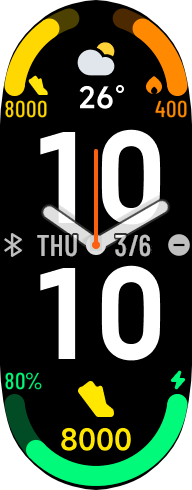
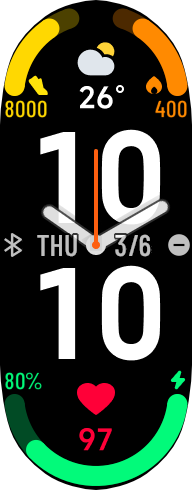
ESBuild

Changed region(s): [[0.3125, 0.7653, 0.6875, 0.9184]]

diff --git a/watchface/render/clock.js b/watchface/render/clock.js
@@ -1,0 +1,80 @@
+import { CLOCK_TYPES, HAS_DIGITS_AOD, HAS_DIGITS_NORMAL, HAS_POINTER_AOD, HAS_POINTER_NORMAL } from "../lib/clock";
+import { getImageArray, mapLanguage, withSelect, withTip } from "../lib/utils";
+import { renderDate } from "./date";
+import { renderStatus } from "./status";
+
+export function renderClock(isAOD, isEdit) {
+  const optional_types = Object.entries(CLOCK_TYPES).map(([key, { type, ...title }]) => ({
+    type,
+    preview: `edit/clock/preview/${key}.png`,
+    ...mapLanguage((lang) => [`title_${lang}`, title[lang]]),
+  }));
+
+  const editGroup = hmUI.createWidget(hmUI.widget.WATCHFACE_EDIT_GROUP, {
+    _name: "clock",
+    edit_id: 120,
+    x: 0,
+    y: 130,
+    w: 192,
+    h: 230,
+    default_type: CLOCK_TYPES.analog_aod.type,
+    optional_types,
+    count: optional_types.length,
+    ...withSelect("edit/clock"),
+    ...withTip(20, -48),
+  });
+
+  if (isEdit) return;
+
+  const currentType = editGroup.getProperty(hmUI.prop.CURRENT_TYPE);
+  const hasDigits = isAOD ? currentType & HAS_DIGITS_AOD : currentType & HAS_DIGITS_NORMAL;
+  const hasPointer = isAOD ? currentType & HAS_POINTER_AOD : currentType & HAS_POINTER_NORMAL;
+
+  if (!isAOD) renderStatus(hasDigits, hasPointer);
+
+  if (hasDigits) {
+    const font = getImageArray(`fonts/clock/${isAOD ? "aod" : "normal"}`);
+
+    hmUI.createWidget(hmUI.widget.IMG_TIME, {
+      _name: "time.digits",
+      hour_startX: 26,
+      hour_startY: 106,
+      hour_zero: 1,
+      hour_array: font,
+      minute_startX: 26,
+      minute_startY: 242,
+      minute_zero: 1,
+      minute_array: font,
+    });
+  } else {
+    hmUI.createWidget(hmUI.widget.IMG, { x: 36, y: 185, src: "pointer/analog_bg.png" });
+  }
+
+  if (hasPointer) {
+    hmUI.createWidget(hmUI.widget.TIME_POINTER, {
+      _name: "time.pointer",
+      hour_centerX: 96,
+      hour_centerY: 245,
+      hour_posX: 12,
+      hour_posY: 69,
+      hour_path: "pointer/hour.p.png",
+      minute_centerX: 96,
+      minute_centerY: 245,
+      minute_posX: 12,
+      minute_posY: 86,
+      minute_path: "pointer/minute.p.png",
+      minute_cover_path: `pointer/center_${isAOD ? "aod" : "normal"}.png`,
+      minute_cover_x: 84,
+      minute_cover_y: 233,
+      ...(isAOD || {
+        second_centerX: 96,
+        second_centerY: 245,
+        second_posX: 6,
+        second_posY: 98,
+        second_path: "pointer/second.p.png",
+      }),
+    });
+  }
+
+  renderDate(hasDigits, hasPointer);
+}

diff --git a/watchface/lib/utils.js b/watchface/lib/utils.js
@@ -1,21 +1,17 @@
-function getCurrentEntry(editGroup, types) {
+export function getCurrentEntry(editGroup, types) {
   const currentType = editGroup.getProperty(hmUI.prop.CURRENT_TYPE);
   return Object.entries(types).find((entry) => getEditType(...entry) === currentType) ?? [];
 }
 
-function getDateWidth() {
-  return ((TIME.month < 10 ? 1 : 2) + (TIME.day < 10 ? 1 : 2)) * 14 + 10;
-}
-
-function getEditType(key, { type }) {
+export function getEditType(key, { type }) {
   return type?.value ?? hmUI.edit_type[key];
 }
 
-function getImageArray(dir, length = 10) {
+export function getImageArray(dir, length = 10) {
   return Array.from({ length }, (_, i) => `${dir}/${i}.png`);
 }
 
-function getOptionalTypes(types, toPreviewFn) {
+export function getOptionalTypes(types, toPreviewFn) {
   return [
     ...Object.entries(types).map(([key, data]) => ({
       type: getEditType(key, data),
@@ -26,11 +22,11 @@ function getOptionalTypes(types, toPreviewFn) {
   ];
 }
 
-function mapLanguage(toEntriesFn) {
+export function mapLanguage(toEntriesFn) {
   return Object.fromEntries(["en", "sc", "tc"].map(toEntriesFn));
 }
 
-function withFont(subdir, { symbols: { invalid, minus, dot, unit } = {} }) {
+export function withFont(subdir, { symbols: { invalid, minus, dot, unit } = {} }) {
   const dir = `fonts/${subdir}`;
   return {
     font_array: getImageArray(dir),
@@ -41,10 +37,10 @@ function withFont(subdir, { symbols: { invalid, minus, dot, unit } = {} }) {
   };
 }
 
-function withSelect(dir) {
+export function withSelect(dir) {
   return { select_image: `${dir}/select.png`, un_select_image: `${dir}/unselect.png` };
 }
 
-function withTip(tips_x, tips_y) {
+export function withTip(tips_x, tips_y) {
   return { tips_BG: "edit/tips.png", tips_x, tips_y, tips_width: 152 };
 }

diff --git a/watchface/render/date.js b/watchface/render/date.js
@@ -1,26 +1,10 @@
+import { getDateWidth, TIME } from "../lib/sensors";
+import { getImageArray, mapLanguage } from "../lib/utils";
+
 const language = DeviceRuntimeCore.HmUtils.getLanguage();
 const hasDay = language.startsWith("en") || language.startsWith("zh");
 
-function renderDate(hasDigits, hasPointer) {
-  function getDatePosition() {
-    if (hasDigits && hasPointer) {
-      return { x: 32, y: 230, month_startX: 114, month_startY: 230 };
-    }
-
-    const dayWidth = hasDay ? 52 : 0;
-    if (hasPointer) {
-      return {
-        x: Math.round((192 - dayWidth) / 2),
-        y: 133,
-        month_startX: Math.round((192 - getDateWidth()) / 2),
-        month_startY: 327,
-      };
-    }
-
-    const x = Math.round((192 - getDateWidth() - dayWidth) / 2);
-    return { x, y: 230, month_startX: x + dayWidth, month_startY: 230 };
-  }
-
+export function renderDate(hasDigits, hasPointer) {
   let { x, y, month_startX, month_startY } = getDatePosition();
   const font = getImageArray("fonts/date");
 
@@ -52,4 +36,23 @@ function renderDate(hasDigits, hasPointer) {
     day?.setProperty(hmUI.prop.MORE, { x, y });
     date.setProperty(hmUI.prop.MORE, { month_startX, month_startY });
   });
+
+  function getDatePosition() {
+    if (hasDigits && hasPointer) {
+      return { x: 32, y: 230, month_startX: 114, month_startY: 230 };
+    }
+
+    const dayWidth = hasDay ? 52 : 0;
+    if (hasPointer) {
+      return {
+        x: Math.round((192 - dayWidth) / 2),
+        y: 133,
+        month_startX: Math.round((192 - getDateWidth()) / 2),
+        month_startY: 327,
+      };
+    }
+
+    const x = Math.round((192 - getDateWidth() - dayWidth) / 2);
+    return { x, y: 230, month_startX: x + dayWidth, month_startY: 230 };
+  }
 }

diff --git a/watchface/render/status.js b/watchface/render/status.js
@@ -1,3 +1,5 @@
+import { getDateWidth, TIME } from "../lib/sensors";
+
 const STATUS_ON_LEFT = {
   bluetooth: { x: 0, y: 216 },
   dnd: { x: 0, y: 248 },
@@ -8,12 +10,8 @@ const STATUS_ON_BOTH_SIDES = {
   dnd: { x: 166, y: 232 },
 };
 
-function getStatusPosition(hasDigits, hasPointer) {
-  return hasDigits && hasPointer && getDateWidth() > 46 ? STATUS_ON_LEFT : STATUS_ON_BOTH_SIDES;
-}
-
-function renderStatus(hasDigits, hasPointer) {
-  let currentPosition = getStatusPosition(hasDigits, hasPointer);
+export function renderStatus(hasDigits, hasPointer) {
+  let currentPosition = getStatusPosition();
   const bluetooth = [
     hmUI.createWidget(hmUI.widget.IMG, {
       _name: "status.bluetooth.on",
@@ -45,9 +43,13 @@ function renderStatus(hasDigits, hasPointer) {
   if (!hasDigits || !hasPointer) return;
 
   TIME.addEventListener(TIME.event.DAYCHANGE, () => {
-    if (currentPosition !== (currentPosition = getStatusPosition(hasDigits, hasPointer))) {
+    if (currentPosition !== (currentPosition = getStatusPosition())) {
       for (let widget of bluetooth) widget.setProperty(hmUI.prop.MORE, currentPosition.bluetooth);
       for (let widget of dnd) widget.setProperty(hmUI.prop.MORE, currentPosition.dnd);
     }
   });
+
+  function getStatusPosition() {
+    return hasDigits && hasPointer && getDateWidth() > 46 ? STATUS_ON_LEFT : STATUS_ON_BOTH_SIDES;
+  }
 }

diff --git a/watchface/lib/clock.js b/watchface/lib/clock.js
@@ -1,0 +1,31 @@
+export const HAS_DIGITS_AOD = 1;
+export const HAS_DIGITS_NORMAL = 2;
+export const HAS_POINTER_AOD = 4;
+export const HAS_POINTER_NORMAL = 8;
+
+export const CLOCK_TYPES = {
+  analog_aod: {
+    type: HAS_DIGITS_NORMAL | HAS_POINTER_AOD | HAS_POINTER_NORMAL,
+    en: "Analog AOD",
+    sc: "指针息屏界面",
+    tc: "指針息屏界面",
+  },
+  analog_only: {
+    type: HAS_POINTER_AOD | HAS_POINTER_NORMAL,
+    en: "Analog Only",
+    sc: "只有指针",
+    tc: "只有指針",
+  },
+  digital_aod: {
+    type: HAS_DIGITS_AOD | HAS_DIGITS_NORMAL | HAS_POINTER_NORMAL,
+    en: "Digital AOD",
+    sc: "数字息屏界面",
+    tc: "數字息屏界面",
+  },
+  digital_only: {
+    type: HAS_DIGITS_AOD | HAS_DIGITS_NORMAL,
+    en: "Digital Only",
+    sc: "只有数字",
+    tc: "只有數字",
+  },
+};

diff --git a/watchface/render/widgets.js b/watchface/render/widgets.js
@@ -1,10 +1,14 @@
-function renderWidgets(isEdit) {
+import { getColor } from "../lib/colors";
+import { getCurrentEntry, getEditType, getOptionalTypes, withFont, withSelect, withTip } from "../lib/utils";
+import { WIDGET_TYPES } from "../lib/widgets";
+
+export function renderWidgets(isEdit) {
   const widgetKeys = [];
   const widgetUrls = [];
   const optional_types = getOptionalTypes(WIDGET_TYPES, (key) => `edit/widgets/preview/${key}.png`);
 
   for (let i = 0; i < 2; i++) {
-    const defaultKey = i === 0 ? "WEATHER_CURRENT" : "STEP";
+    const defaultKey = i === 0 ? "WEATHER_CURRENT" : "HEART";
 
     const editGroup = hmUI.createWidget(hmUI.widget.WATCHFACE_EDIT_GROUP, {
       _name: `widgets[${i}]`,

diff --git a/watchface/render/events.js b/watchface/render/events.js
@@ -6,7 +6,7 @@ function changeBrightness(delta) {
   hmSetting.setBrightness(Math.min(Math.max(0, hmSetting.getBrightness() + delta), 100));
 }
 
-function renderEventLayer(widgetURLs, barURLs) {
+export function renderEventLayer(widgetURLs, barURLs) {
   let mustHandle = false;
   const zone = hmUI.createWidget(hmUI.widget.IMG, { _name: "events", x: 0, y: 0, w: 192, h: 490 });
 

diff --git a/watchface/lib/bars.js b/watchface/lib/bars.js
@@ -1,7 +1,9 @@
+import { SLEEP } from "./sensors";
+
 const getBrightness = { fn: hmSetting.getBrightness, ms: 100 };
 const getSleepScore = { fn: () => SLEEP.getBasicInfo().score, ms: 1000 };
 
-const BAR_TYPES = {
+export const BAR_TYPES = {
   HUMIDITY: { url: "WeatherScreen", color: { fg: 0x0dd3ff, bg: 0x043f4c } },
   BATTERY: {
     url: "Settings_batteryManagerScreen",

diff --git a/watchface/index.js b/watchface/index.js
@@ -1,3 +1,8 @@
+import { renderBars } from "./render/bars";
+import { renderClock } from "./render/clock";
+import { renderEventLayer } from "./render/events";
+import { renderWidgets } from "./render/widgets";
+
 __$$hmAppManager$$__.currentApp.current.module = DeviceRuntimeCore.WatchFace({
   onInit() {
     const currentScreen = hmSetting.getScreenType();

diff --git a/watchface/render/bars.js b/watchface/render/bars.js
@@ -1,4 +1,8 @@
-function renderBars(widgetKeys) {
+import { BAR_TYPES } from "../lib/bars";
+import { getColor } from "../lib/colors";
+import { getCurrentEntry, getEditType, getOptionalTypes, withFont, withSelect, withTip } from "../lib/utils";
+
+export function renderBars(widgetKeys) {
   const barKeys = [];
   const barUrls = [];
 

diff --git a/watchface/lib/widgets.js b/watchface/lib/widgets.js
@@ -1,6 +1,8 @@
-let timerText = "0";
+import { BAR_TYPES } from "./bars";
+import { TIME, WEATHER } from "./sensors";
+import { getImageArray } from "./utils";
 
-const WIDGET_TYPES = {
+export const WIDGET_TYPES = {
   WEATHER_CURRENT: {
     type: { value: 11, en: "Weather", sc: "天气", tc: "天氣" },
     url: "WeatherScreen",

diff --git a/watchface/lib/sensors.js b/watchface/lib/sensors.js
@@ -1,0 +1,7 @@
+export const TIME = hmSensor.createSensor(hmSensor.id.TIME);
+export const SLEEP = hmSensor.createSensor(hmSensor.id.SLEEP);
+export const WEATHER = hmSensor.createSensor(hmSensor.id.WEATHER);
+
+export function getDateWidth() {
+  return ((TIME.month < 10 ? 1 : 2) + (TIME.day < 10 ? 1 : 2)) * 14 + 10;
+}
